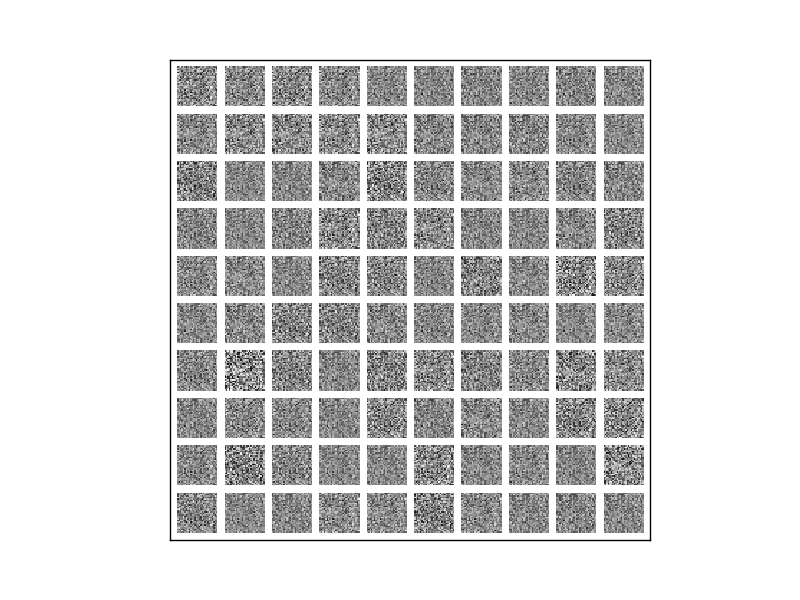
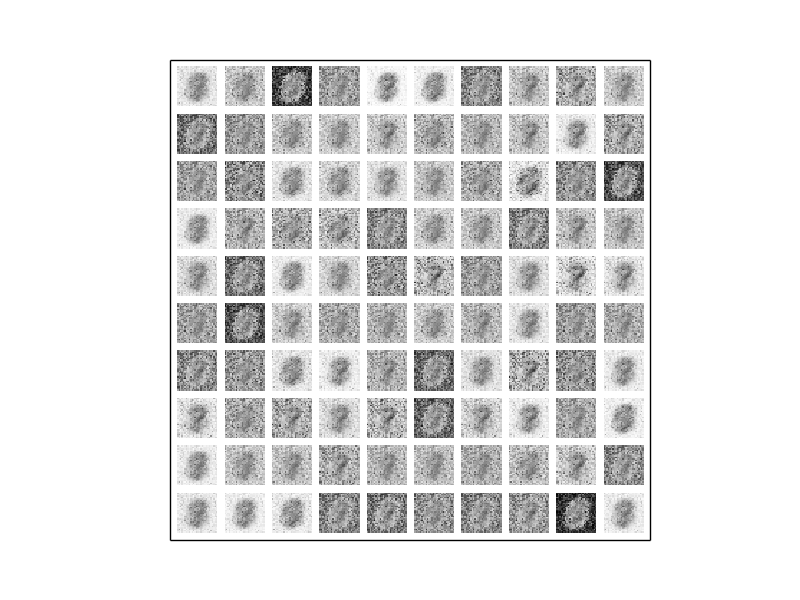
some unfinished modifications of old files to get them to work with cleaned files

Changed region(s): [[0.2188, 0.09, 0.8125, 0.9]]

diff --git a/experiments/4-test-flows/6-aevb-bimodal/main.py b/experiments/4-test-flows/6-aevb-bimodal/main.py
@@ -1,0 +1,130 @@
+# Main demo script
+import autograd.numpy as np
+from autograd import value_and_grad
+import time
+
+from autopaint.flows import build_flow_sampler,build_batch_flow_sampler
+from autopaint.plotting import plot_density
+from autopaint.neuralnet import make_batches
+from autopaint.aevb import build_encoder,build_gaussian_decoder
+from autopaint.optimizers import adam_mini_batch, sga_mini_batch
+from autopaint.util import sample_from_normal_bimodal
+
+if __name__ == '__main__':
+
+    t0 = time.time()
+    rs = np.random.npr.RandomState(0)
+
+    # train_images = np.random.multivariate_normal(np.zeros(2),np.array([[1,.9],[.9,1]]),10000)
+
+    train_images = sample_from_normal_bimodal(-10*np.ones(2),10*np.ones(2),1000,rs)
+
+
+    #Create aevb function
+    # Training parameters
+    param_scale = 0.1
+    samples_per_image = 1
+    latent_dimensions = 1
+    hidden_units = 50
+    D = train_images.shape[1]
+
+    enc_layers = [D, hidden_units, 2*latent_dimensions]
+    dec_layers = [latent_dimensions, hidden_units, D*2]
+
+    N_weights_enc,encoder = build_encoder(enc_layers)
+    N_weights_dec,decoder, decoder_log_like = build_gaussian_decoder(dec_layers)
+
+    #Optimize aevb
+    batch_size = 1
+    num_epochs = 1
+    num_steps = 32
+    num_sampler_optimization_steps = 400
+    sampler_learn_rate = 0.01
+
+    D = 2
+    init_enc_w = rs.randn(N_weights_enc) * param_scale
+    init_dec_w = rs.randn(N_weights_dec) * param_scale
+    init_mean = np.zeros(latent_dimensions)
+    init_log_stddevs = np.log(0.1*np.ones(latent_dimensions))
+    init_output_weights = 0.1*rs.randn(num_steps, latent_dimensions)
+    init_transform_weights = 0.1*rs.randn(num_steps, latent_dimensions)
+    init_biases = 0.1*rs.randn(num_steps)
+
+    #logprob_mvn = build_logprob_mvn(mean=np.array([0.2,0.4]), cov=np.array([[1.0,0.9], [0.9,1.0]]))
+    flow_sample, parser = build_batch_flow_sampler(latent_dimensions, num_steps,batch_size)
+    parser.add_shape('enc_w',len(init_enc_w))
+    parser.add_shape('dec_w',len(init_dec_w))
+
+
+    sampler_params = np.zeros(len(parser))
+    parser.put(sampler_params, 'output weights', init_output_weights)
+    parser.put(sampler_params, 'transform weights', init_transform_weights)
+    parser.put(sampler_params, 'biases', init_biases)
+    parser.put(sampler_params,'enc_w',init_enc_w)
+    parser.put(sampler_params,'dec_w', init_dec_w)
+    batch_idxs = make_batches(train_images.shape[0], batch_size)
+
+
+    def get_batch_marginal_likelihood_estimate(sampler_params):
+        samples, likelihood_estimates, entropy_estimates = flow_sample(sampler_params, rs, num_samples)
+        print "Mean loglik:", np.mean(likelihood_estimates.value),\
+              "Mean entropy:", np.mean(entropy_estimates.value)
+        plot_density(samples.value, "approximating_dist.png")
+        return np.mean(likelihood_estimates + entropy_estimates)
+
+    ml_and_grad = value_and_grad(get_batch_marginal_likelihood_estimate)
+
+    def get_batch_lower_bound(cur_sampler_params, idxs):
+        #Create an initial encoding of sample images:
+        enc_w = parser.get(cur_sampler_params,'enc_w')
+        (mus,log_sigs) = encoder(enc_w,train_images[idxs])
+        #Take mean of encodings and sigs and use this to generate samples, should return only entropy
+        samples, entropy_estimates = flow_sample(cur_sampler_params, mus, np.exp(log_sigs),rs, samples_per_image)
+        #From samples decode them and compute likelihood
+        dec_w = parser.get(cur_sampler_params,'dec_w')
+        train_images_repeat = np.repeat(train_images[idxs],samples_per_image,axis=0)
+        loglike = decoder_log_like(dec_w,samples,train_images_repeat)
+        print "Mean loglik:", loglike.value,\
+        "Mean entropy:", np.mean(entropy_estimates.value)
+        #Create some samples from x:
+        (xs_mu,xs_log_sigs) = decoder(dec_w, samples)
+        x_noise = rs.randn(xs_mu.shape[0],xs_mu.shape[1])
+        xs_samples = xs_mu+xs_log_sigs*x_noise
+        plot_density(xs_samples.value, "approximating_dist.png")
+        #print np.mean(entropy_estimates)+loglike
+        return np.mean(entropy_estimates)+loglike
+
+    lb_val_grad = value_and_grad(get_batch_lower_bound)
+
+
+    def print_ml(ml,weights,grad):
+        print "log marginal likelihood:", ml
+
+
+    final_params, final_value = adam_mini_batch(lb_val_grad,sampler_params,batch_idxs,num_epochs,callback=print_ml)
+
+    def generate_samples(sampler_params,num_x_samples):
+        x_samples = np.zeros(num_x_samples,D)
+        for i in xrange(x_samples):
+            #Create an initial encoding of sample images:
+            enc_w = parser.get(cur_sampler_params,'enc_w')
+            (mus,log_sigs) = encoder(enc_w,train_images[idxs])
+            #Take mean of encodings and sigs and use this to generate samples, should return only entropy
+            samples, entropy_estimates = flow_sample(cur_sampler_params, mus, np.exp(log_sigs),rs, samples_per_image)
+            #From samples decode them and compute likelihood
+            dec_w = parser.get(cur_sampler_params,'dec_w')
+            train_images_repeat = np.repeat(train_images[idxs],samples_per_image,axis=0)
+            loglike = decoder_log_like(dec_w,samples,train_images_repeat)
+            print "Mean loglik:", loglike.value,\
+            "Mean entropy:", np.mean(entropy_estimates.value)
+            #Create some samples from x:
+            (xs_mu,xs_log_sigs) = decoder(dec_w, samples)
+            x_noise = rs.randn(xs_mu.shape[0],xs_mu.shape[1])
+            x_samples[i,:] = xs_mu+xs_log_sigs*x_noise
+        plot_density(x_samples.value, "approximating_dist.png")
+
+
+    t1 = time.time()
+    print "total runtime", t1-t0
+
+

diff --git a/experiments/4-test-flows/7-aevb-mnist/main.py b/experiments/4-test-flows/7-aevb-mnist/main.py
@@ -7,12 +7,11 @@ import matplotlib.pyplot as plt
 import autograd.numpy as np
 from autograd import value_and_grad
 
-from autopaint.flows import build_flow_sampler, build_batch_flow_sampler
-from autopaint.neuralnet import make_batches
-from autopaint.aevb import build_encoder,build_binarized_decoder
-from autopaint.optimizers import adam_mini_batch, sga_mini_batch
+from autopaint.flows import build_flow_sampler
+from autopaint.neuralnet import make_batches, make_gaussian_nn,make_binary_nn
 from autopaint.util import sample_from_normal_bimodal, load_and_pickle_binary_mnist
 from autopaint.plotting import plot_images
+from autopaint.optimizers import adam
 
 #AEVB params
 param_scale = 0.1
@@ -20,26 +19,14 @@ samples_per_image = 1
 latent_dimensions = 2
 hidden_units = 500
 
-def get_batch_lower_bound(cur_sampler_params, idxs):
-    #Create an initial encoding of sample images:
-    enc_w = parser.get(cur_sampler_params, 'encoder weights')
-    (mus,log_sigs) = encoder(enc_w,train_images[idxs])
-    #Take mean of encodings and sigs and use this to generate samples, should return only entropy
-    samples, entropy_estimates = flow_sample(cur_sampler_params, mus, np.exp(log_sigs),rs, samples_per_image)
-    #From samples decode them and compute likelihood
-    dec_w = parser.get(cur_sampler_params, 'decoder weights')
-    train_images_repeat = np.repeat(train_images[idxs],samples_per_image,axis=0)
-    loglike = decoder_log_like(dec_w,samples,train_images_repeat)
-    print "Mean loglik:", loglike.value,\
-    "Mean entropy:", np.mean(entropy_estimates.value)
-    return np.mean(entropy_estimates)+loglike
+
 
 if __name__ == '__main__':
 
     start_time = time.time()
     rs = np.random.npr.RandomState(0)
     #load_and_pickle_binary_mnist()
-    with open('mnist_binary_data.pkl') as f:
+    with open('../../../autopaint/mnist_binary_data.pkl') as f:
         N_data, train_images, train_labels, test_images, test_labels = pickle.load(f)
 
     #Create aevb function
@@ -48,12 +35,12 @@ if __name__ == '__main__':
     enc_layers = [D, hidden_units, 2*latent_dimensions]
     dec_layers = [latent_dimensions, hidden_units, D]
 
-    N_weights_enc, encoder = build_encoder(enc_layers)
-    N_weights_dec, decoder, decoder_log_like = build_binarized_decoder(dec_layers)
+    N_weights_enc, encoder, encoder_log_like = make_gaussian_nn(enc_layers)
+    N_weights_dec, decoder, decoder_log_like = make_binary_nn(dec_layers)
 
     #Optimize aevb
     batch_size = 100
-    num_epochs = 1
+    num_train_iters = 10
     num_steps = 32
     num_sampler_optimization_steps = 400
     sampler_learn_rate = 0.01
@@ -64,7 +51,7 @@ if __name__ == '__main__':
     init_transform_weights = 0.1*rs.randn(num_steps, latent_dimensions)
     init_biases = 0.1*rs.randn(num_steps)
 
-    flow_sample, parser = build_batch_flow_sampler(latent_dimensions, num_steps,batch_size)
+    flow_sample, parser = build_flow_sampler(latent_dimensions, num_steps)
     parser.add_shape('encoder weights',len(init_enc_w))
     parser.add_shape('decoder weights',len(init_dec_w))
 
@@ -76,7 +63,22 @@ if __name__ == '__main__':
     parser.put(sampler_params,'decoder weights', init_dec_w)
     batch_idxs = make_batches(train_images.shape[0], batch_size)
 
-    lb_val_grad = value_and_grad(get_batch_lower_bound)
+
+
+    def get_batch_lower_bound(cur_sampler_params, iter):
+        cur_data = train_images[batch_idxs[iter]]
+        #Create an initial encoding of sample images:
+        enc_w = parser.get(cur_sampler_params, 'encoder weights')
+        (mus,log_sigs) = encoder(enc_w,cur_data)
+        #Take mean of encodings and sigs and use this to generate samples, should return only entropy
+        samples, entropy_estimates = flow_sample(cur_sampler_params, mus, np.exp(log_sigs),rs, samples_per_image)
+        #From samples decode them and compute likelihood
+        dec_w = parser.get(cur_sampler_params, 'decoder weights')
+        train_images_repeat = np.repeat(cur_data,samples_per_image,axis=0)
+        loglike = decoder_log_like(dec_w,samples,train_images_repeat)
+        print "Mean loglik:", loglike.value,\
+        "Mean entropy:", np.mean(entropy_estimates.value)
+        return np.mean(entropy_estimates)+loglike
 
     def callback(ml, weights, grad):
         print "log marginal likelihood:", ml
@@ -92,8 +94,10 @@ if __name__ == '__main__':
         plot_images(samples, ax, ims_per_row=images_per_row)
         plt.savefig('samples.png')
 
-    final_params, final_value = adam_mini_batch(lb_val_grad, sampler_params,
-                                                batch_idxs, num_epochs, callback=callback)
+    lb_val_grad = value_and_grad(get_batch_lower_bound)
+
+    final_params, final_value = adam(lb_val_grad, sampler_params,
+                                                num_train_iters, callback=callback)
 
     finish_time = time.time()
     print "total runtime", finish_time - start_time

diff --git a/experiments/6-test-aevb/1-test-encoder/main.py b/experiments/6-test-aevb/1-test-encoder/main.py
@@ -8,12 +8,12 @@ import autograd.numpy as np
 from autograd import value_and_grad
 
 from autopaint.plotting import plot_images
-from autopaint.optimizers import adam_mini_batch,ada_grad_mini_batch,ada_delta_mini_batch
+from autopaint.optimizers import adam
 from autopaint.neuralnet import make_batches
 from autopaint.util import load_mnist
-from autopaint.aevb import build_encoder, build_binarized_decoder, lower_bound
+from autopaint.aevb import lower_bound
 from autopaint.util import WeightsParser, load_and_pickle_binary_mnist
-
+from autopaint.neuralnet import make_binary_nn,make_gaussian_nn
 param_scale = 0.1
 samples_per_image = 1
 latent_dimensions = 2
@@ -30,12 +30,12 @@ def run_aevb(train_images):
     enc_layers = [D, hidden_units, 2*latent_dimensions]
     dec_layers = [latent_dimensions, hidden_units, D]
 
-    N_weights_enc, encoder = build_encoder(enc_layers)
-    N_weights_dec, decoder, decoder_log_like = build_binarized_decoder(dec_layers)
+    N_weights_enc, encoder, encoder_log_like = make_gaussian_nn(enc_layers)
+    N_weights_dec, decoder, decoder_log_like = make_binary_nn(dec_layers)
 
     # Optimize aevb
     batch_size = 100
-    num_epochs = 160
+    num_opt_iters = 160
     rs = npr.RandomState(0)
 
     parser = WeightsParser()
@@ -45,9 +45,10 @@ def run_aevb(train_images):
 
     batch_idxs = make_batches(train_images.shape[0], batch_size)
 
-    def batch_value_and_grad(weights, idxs):
+    def batch_value_and_grad(weights, iter):
+        cur_data = train_images[batch_idxs[iter]]
         def batch_lower_bound(weights):
-            return lower_bound(weights,encoder,decoder_log_like,N_weights_enc,train_images[idxs],samples_per_image,latent_dimensions,rs)
+            return lower_bound(weights,encoder,decoder_log_like,N_weights_enc,cur_data,samples_per_image,latent_dimensions,rs)
 
         val_and_grad_func = value_and_grad(batch_lower_bound)
 
@@ -67,8 +68,8 @@ def run_aevb(train_images):
         plot_images(samples, ax, ims_per_row=images_per_row)
         plt.savefig('samples.png')
 
-    final_params, final_value = adam_mini_batch(batch_value_and_grad, initial_combined_weights,
-                                                batch_idxs, num_epochs, callback=callback)
+    final_params, final_value = adam(batch_value_and_grad, initial_combined_weights,
+                                                num_opt_iters, callback=callback)
 
     def decoder_with_weights(zs):
         return decoder(parser.get(final_params, 'decoding weights'), zs)

diff --git a/experiments/7-comparison/1-mnist-dglv/main.py b/experiments/7-comparison/1-mnist-dglv/main.py
@@ -35,7 +35,7 @@ if __name__ == '__main__':
     start_time = time.time()
     rs = np.random.npr.RandomState(0)
     #load_and_pickle_binary_mnist()
-    with open('mnist_binary_data.pkl') as f:
+    with open('../../../autopaint/mnist_binary_data.pkl') as f:
         N_data, train_images, train_labels, test_images, test_labels = pickle.load(f)
 
     D = train_images.shape[1]
@@ -47,7 +47,7 @@ if __name__ == '__main__':
 
     # Optimization parameters.
     batch_size = 100
-    num_training_iters = 10
+    num_training_iters = 100
     sampler_learn_rate = 0.01
     batch_idxs = make_batches(train_images.shape[0], batch_size)
 
